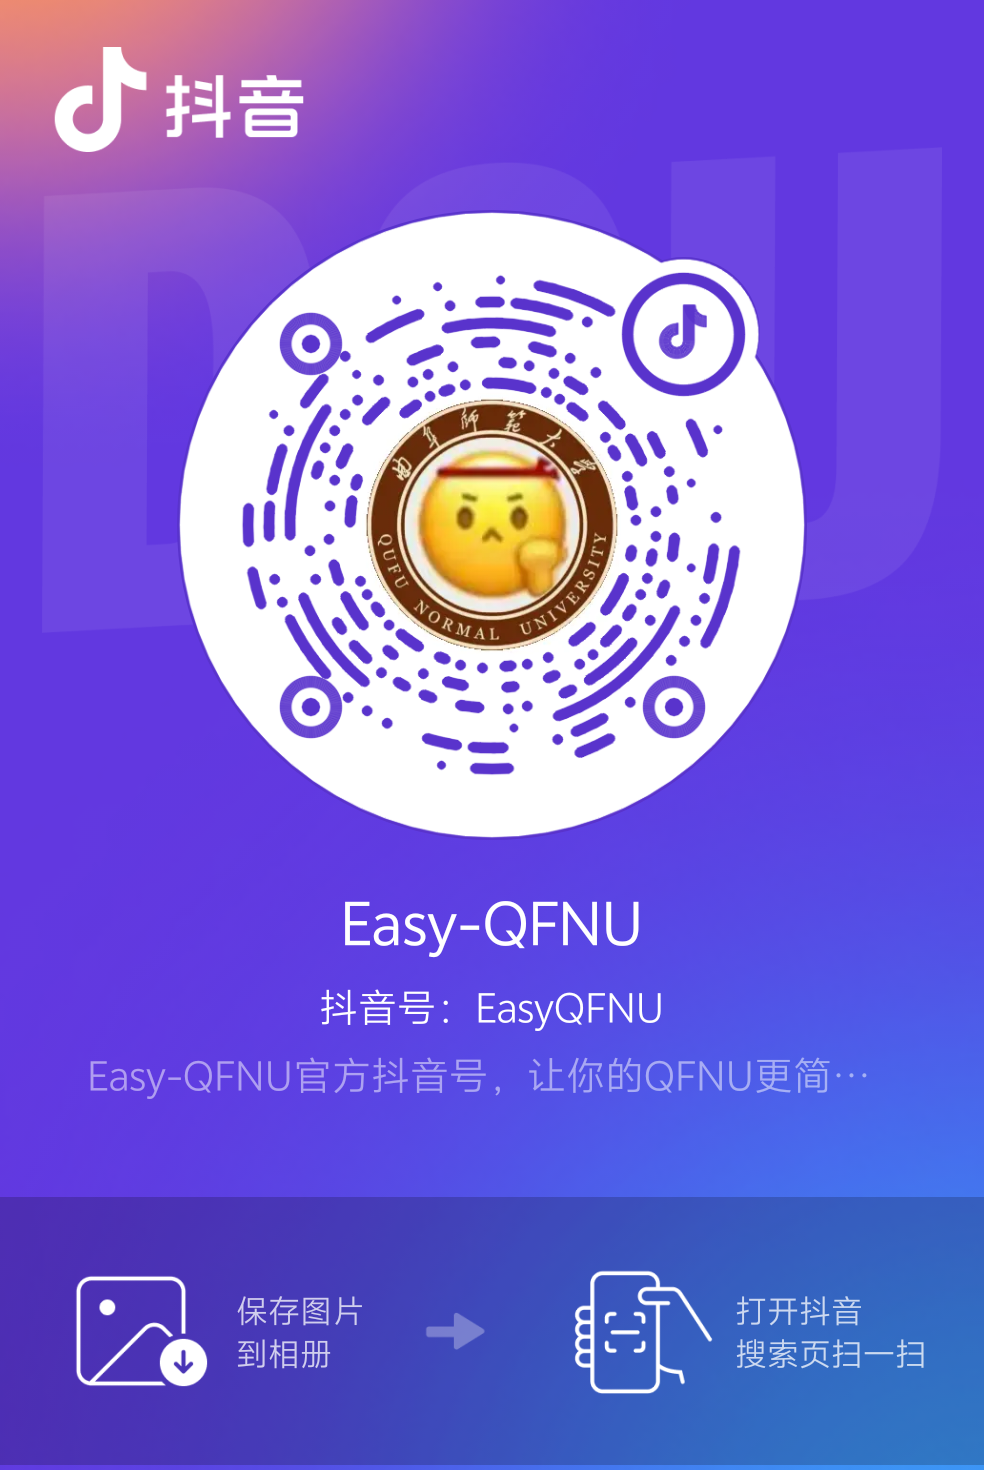
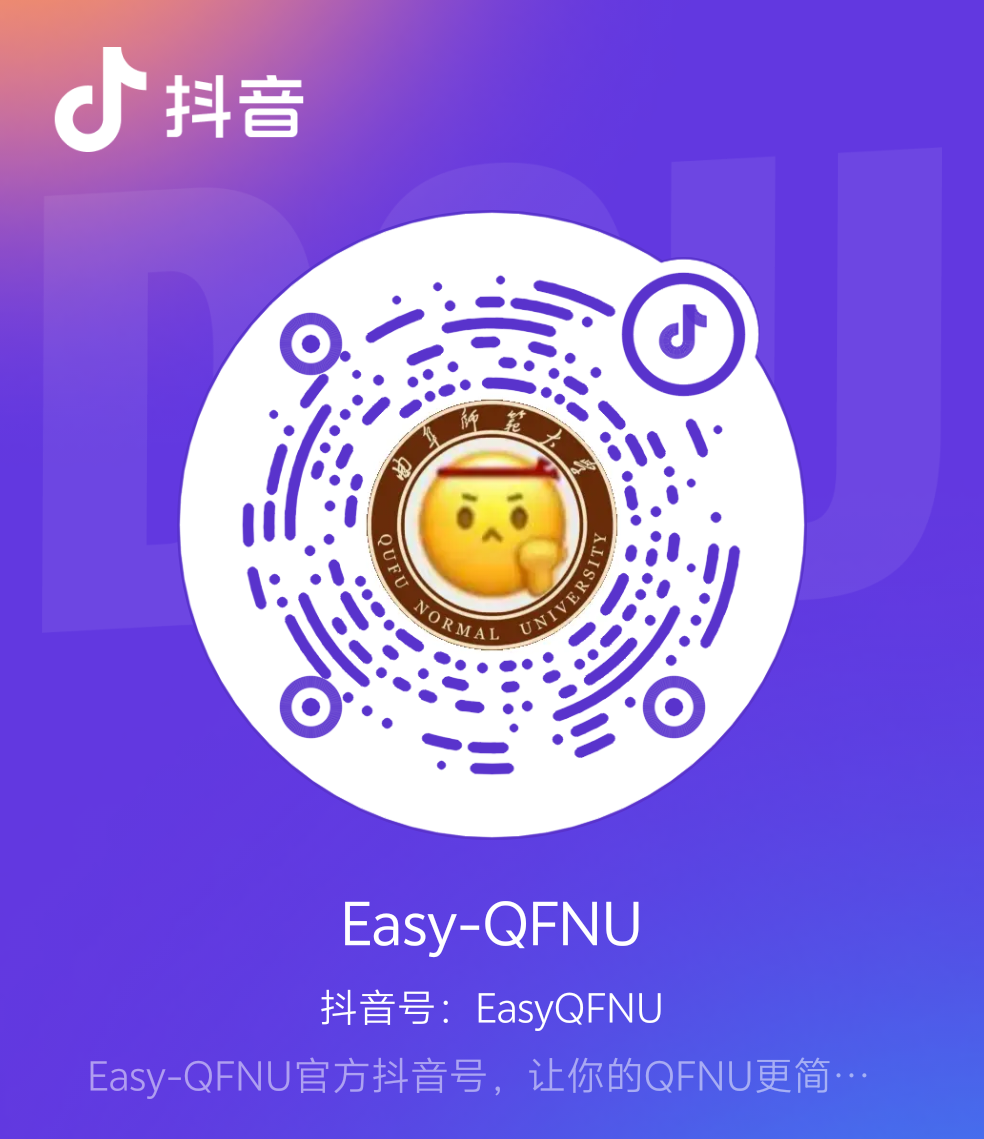
重制关于本站模块

diff --git a/docs/Start/index.md b/docs/Start/index.md
@@ -24,7 +24,7 @@ icon: material/airplane
 
 <!--
 
-%E4%BB%B0%E6%9C%9B%E9%AB%98%E5%B1%B1%E7%9A%84%E4%BA%BA%0A%0A%E4%BB%A5%E4%B8%BA%E5%B1%B1%E5%B7%85%E6%98%AF%E5%B7%8D%E5%B3%A8%E5%B7%85%E5%B3%B0%0A%0A%E5%B3%BB%E5%B3%AD%E3%80%81%E6%8C%BA%E6%8B%94%EF%BC%8C%E6%97%A0%E5%8F%AF%E6%8C%91%E5%89%94%0A%0A%E6%94%80%E7%99%BB%E9%AB%98%E5%B3%B0%E7%9A%84%E4%BA%BA%E6%96%B9%E7%9F%A5%0A%0A%E9%82%A3%E9%87%8C%E6%9C%89%E8%8D%86%E6%A3%98%E3%80%81%E9%99%A9%E6%BB%A9%0A%0A%E8%BF%9C%E4%B8%8D%E6%AD%A2%E7%9C%BC%E5%89%8D%E9%A3%8E%E5%85%89%E4%BF%8F%E4%B8%BD
+%E4%BB%B0%E6%9C%9B%E9%AB%98%E5%B1%B1%E7%9A%84%E4%BA%BA%0A%0A%E4%BB%A5%E4%B8%BA%E5%B1%B1%E5%B7%85%E6%98%AF%E5%B7%8D%E5%B3%A8%E5%B7%85%E5%B3%B0%0A%0A%E5%B3%BB%E5%B3%AD%E3%100%81%E6%8C%BA%E6%8B%94%EF%BC%8C%E6%97%A0%E5%8F%AF%E6%8C%91%E5%89%94%0A%0A%E6%94%100%E7%99%BB%E9%AB%98%E5%B3%B0%E7%9A%84%E4%BA%BA%E6%96%B9%E7%9F%A5%0A%0A%E9%82%A3%E9%87%8C%E6%9C%89%E8%8D%86%E6%A3%98%E3%100%81%E9%99%A9%E6%BB%A9%0A%0A%E8%BF%9C%E4%B8%8D%E6%AD%A2%E7%9C%BC%E5%89%8D%E9%A3%8E%E5%85%89%E4%BF%8F%E4%B8%BD
 
 仰望高山的人
 
@@ -74,8 +74,6 @@ Easy-QFNU 的前身是 [曲阜师范大学选课指北](https://blog.w1ndys.top/
 
 ## 致谢 | Acknowledgement
 
-
-
 感谢所有贡献者，本项目的完成离不开以下小伙伴的贡献，感谢他们的付出。包括但不仅限于：
 
 1. 网站作者
@@ -112,37 +110,35 @@ Easy-QFNU 的前身是 [曲阜师范大学选课指北](https://blog.w1ndys.top/
 
 === "官网"
 
-    ![官网](website.png)
+    <img src="website.png" alt="官网" width="100%" />
 
     官方网站的二维码，扫一下即可跳转到官方网站页面，可以截图分享
 
 === "微信公众号"
 
-    ![微信公众号](VXGZH.png)
+    <img src="VXGZH.png" alt="微信公众号" width="100%" />
 
     我们的微信公众号，关注后可以获取最新资讯，有重要通知都会在这里发
 
 === "作者 QQ"
 
-    ![作者 QQ](QQ.png)
+    <img src="Author_QQ.png" alt="作者 QQ" width="100%" />
 
     需要**联系作者**请扫描二维码联系，请一定备注来源
 
 === "官方抖音号"
 
-    <img src="douyin.png" alt="官方抖音号" width="50%" />
+    <img src="douyin.png" alt="官方抖音号" width="100%" />
+
+=== "QQ 通知群"
+
+    <img src="QQ_group.png" alt="QQ通知群" width="100%" />
 
 === "QQ 闲聊群"
 
-    ![QQ闲聊群](qqchat.png)
+    <img src="QQ_chat_Group.png" alt="QQ闲聊群" width="100%" />
 
     来水群！来水群！来水群！来水群！
-
-=== "钉钉通知群"
-
-    ![钉钉通知群](dingtalk.png)
-
-    这里使用学校的指定办公APP：云上曲园，也可以加群，云上曲园实际上就是一个定制版的钉钉，但还是推荐使用钉钉原版，更新比较快
 
 ---
 

diff --git a/docs/Start/Thanks/index.md b/docs/Start/Thanks/index.md
@@ -17,12 +17,13 @@ icon: material/heart
 - **SUPER4NRNS**: 参与 `Easy-校园` 内容的修正
 - **21 数学匿名师哥**: 贡献了 `选课指北` 内容的参考资料
 
+## 选课指北数据贡献者
+
+详情可见：[选课指北数据贡献者](/Easy-SelectCourse/Curriculum-Recommend/Contributors/)
+
 ## 技术支持者
 
 本项目基于 [Mkdocs-Material](https://squidfunk.github.io/mkdocs-material/) 构建，源代码托管于 [GitHub](https://github.com/W1ndys/Easy-QFNU) ，静态页面部署于 [阿里云](https://www.aliyun.com/)、 [Vercel](https://vercel.com/) 、 [Netlify](https://www.netlify.com/) 、[cloudflare](https://www.cloudflare.com/) ，感谢以上单位。
 
 起初，我们只是一个简单的博客站点，后来受到 [Hello-CTF](https://hello-ctf.com/) 的启发，后来不断完善，才有了现在的这个样子，如果你对 CTF 感兴趣，推荐阅读这个 CTF 入门指南
 
-## 选课指北数据贡献者
-
-详情可见：[选课指北数据贡献者](/Easy-SelectCourse/Curriculum-Recommend/Contributors/)
